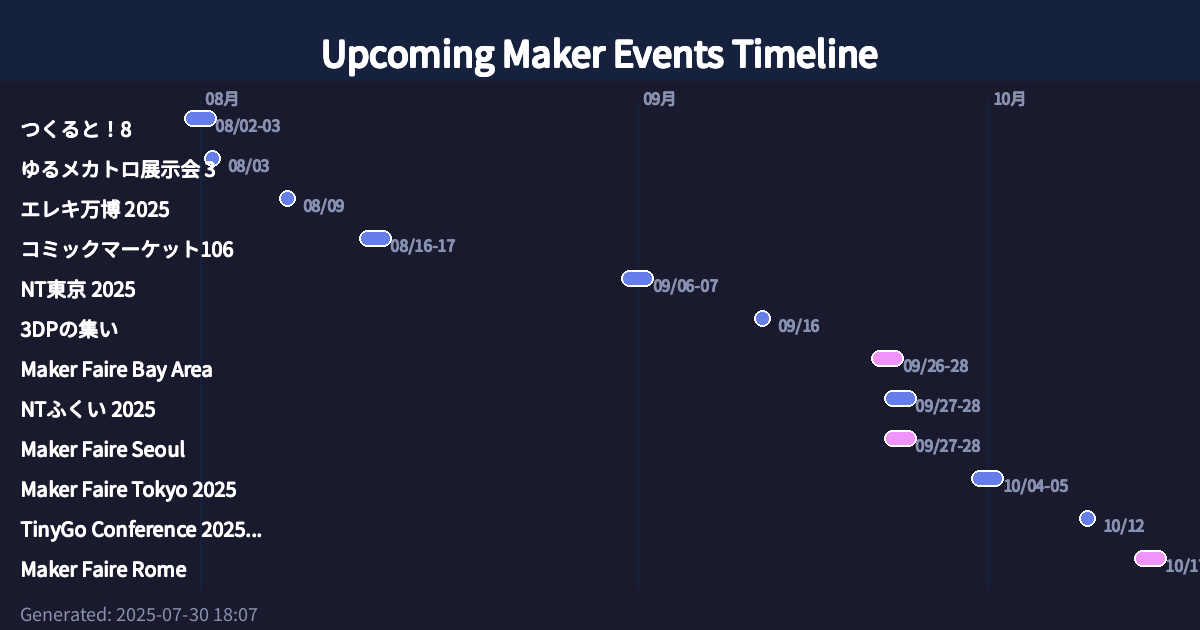
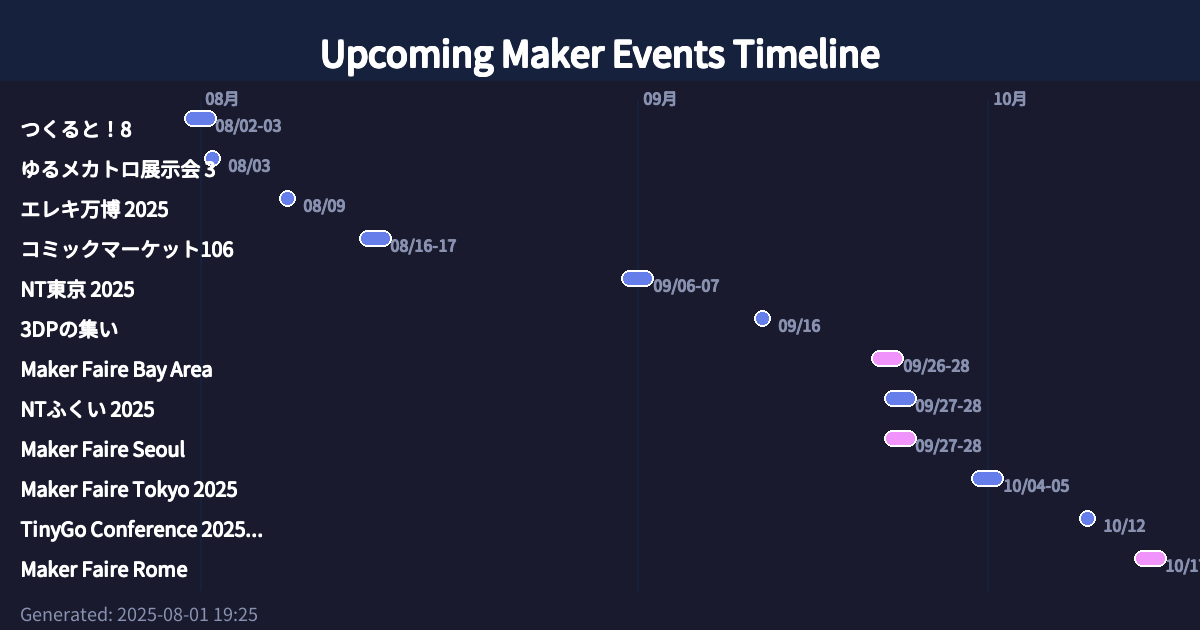
ページ下部にOGP画像を表示する機能を追加
- 更新日時の上にイベントタイムライン画像を配置
- 日英併記のタイトル「イベントスケジュール  < /dev/null |  Event Timeline」
- レスポンシブ対応（max-width: 100%）
- 角丸と影効果でデザイン性を向上
- せっかく生成したOGP画像をページでも活用

🤖 Generated with [Claude Code](https://claude.ai/code)

diff --git a/index.html b/index.html
@@ -588,7 +588,7 @@
                 <div class="event-card">
                     <div class="event-image">
                         
-                            <img src="https://bayarea.makerfaire.com/thumbnail/MakerFaireBayArea2025?_=1753885361672" alt="Maker Faire Bay Area" style="width: 100%; height: 100%; object-fit: cover;">
+                            <img src="https://bayarea.makerfaire.com/thumbnail/MakerFaireBayArea2025?_=1753984996124" alt="Maker Faire Bay Area" style="width: 100%; height: 100%; object-fit: cover;">
                         
                     </div>
                     <div class="event-content">
@@ -763,8 +763,13 @@
         
     </div>
     
-    <footer style="text-align: center; margin-top: 2rem; padding: 1rem; color: #666; font-size: 0.8rem; border-top: 1px solid #e0e0e0;">
-        <p>Last updated: 2025-07-31 03:07 JST</p>
+    <div style="text-align: center; margin: 2rem 0 1rem 0;">
+        <h3 style="margin-bottom: 1rem; color: #333; font-size: 1.2rem;">イベントスケジュール | Event Timeline</h3>
+        <img src="ogp_image.png" alt="Upcoming Maker Events Timeline" style="max-width: 100%; height: auto; border-radius: 8px; box-shadow: 0 2px 8px rgba(0,0,0,0.1);">
+    </div>
+    
+    <footer style="text-align: center; margin-top: 1rem; padding: 1rem; color: #666; font-size: 0.8rem; border-top: 1px solid #e0e0e0;">
+        <p>Last updated: 2025-08-01 19:25 JST</p>
     </footer>
 </body>
 </html>

diff --git a/generate_events.py b/generate_events.py
@@ -1023,7 +1023,12 @@ def generate_html(events: List[Event], template_dir: str = "templates") -> str:
         {% endif %}
     </div>
     
-    <footer style="text-align: center; margin-top: 2rem; padding: 1rem; color: #666; font-size: 0.8rem; border-top: 1px solid #e0e0e0;">
+    <div style="text-align: center; margin: 2rem 0 1rem 0;">
+        <h3 style="margin-bottom: 1rem; color: #333; font-size: 1.2rem;">イベントスケジュール | Event Timeline</h3>
+        <img src="ogp_image.png" alt="Upcoming Maker Events Timeline" style="max-width: 100%; height: auto; border-radius: 8px; box-shadow: 0 2px 8px rgba(0,0,0,0.1);">
+    </div>
+    
+    <footer style="text-align: center; margin-top: 1rem; padding: 1rem; color: #666; font-size: 0.8rem; border-top: 1px solid #e0e0e0;">
         <p>Last updated: {{ last_updated }}</p>
     </footer>
 </body>
